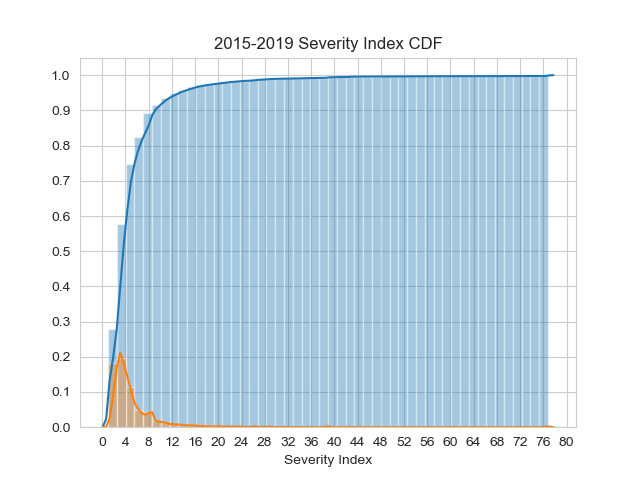
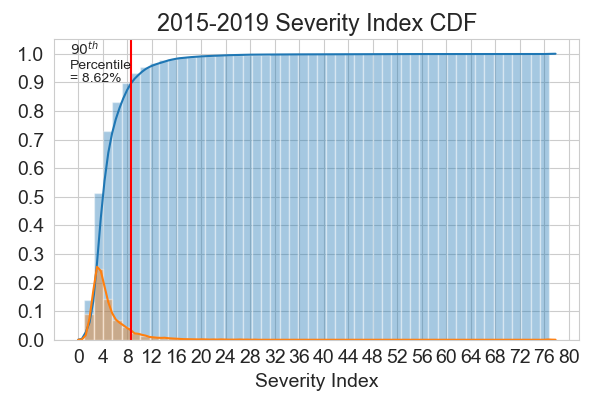
Clean up plots and the SI factor between 1 and 1.2.

Changed region(s): [[0.03, 0.03, 0.99, 0.99]]

diff --git a/src/visualization/visualize_si.py b/src/visualization/visualize_si.py
@@ -10,6 +10,10 @@ from sklearn.cluster import KMeans
 import matplotlib.pyplot as plt
 import matplotlib.ticker as plticker
 from src.utils import get_project_root
+import sklearn
+import numpy as np
+
+plt.rcParams.update({'font.size': 14})
 
 sns.set_style("whitegrid")
 LOC_Y = plticker.MultipleLocator(
@@ -21,6 +25,7 @@ LOC_X = plticker.MultipleLocator(
 
 
 def plot_cdf_pdf(crash_df_fil_si_geom_gdf_no_nan_,
+                 quantile_90th_,
                  loc_x=LOC_X,
                  loc_y=LOC_Y,
                  title_="2015-2019 Severity Index CDF",
@@ -39,7 +44,11 @@ def plot_cdf_pdf(crash_df_fil_si_geom_gdf_no_nan_,
         si_cdf_plot.xaxis.set_major_locator(loc_x)
     if bool(loc_y):
         si_cdf_plot.yaxis.set_major_locator(loc_y)
+    plt.axvline(quantile_90th_, color='red')
+    plt.text(quantile_90th_-10, 0.90, r"$90^{th}$"+"\nPercentile\n= 8.62%", fontsize=10)
     si_cdf_plot_fig = si_cdf_plot.get_figure()
+    plt.tight_layout()
+    si_cdf_plot_fig.set_size_inches(6, 4)
     si_cdf_plot_fig.savefig(
         fname=os.path.join(path_to_fig, f"{img_file_}.png")
     )
@@ -70,6 +79,7 @@ def plot_facet_cdf_pdf(crash_df_fil_si_geom_gdf_no_nan_,
     plt.subplots_adjust(top=0.85)
     si_cdf_plot_rt_cls.fig.suptitle(title_)
     si_cdf_plot_rt_cls.set_xlabels("Severity Index")
+    plt.tight_layout()
     si_cdf_plot_rt_cls.savefig(
         fname=os.path.join(path_to_fig, f"{img_file_}.png")
     )
@@ -114,6 +124,7 @@ def apply_kmeans_cluster_plot(crash_df_fil_si_geom_gdf_no_nan_):
 if __name__ == "__main__":
     path_to_prj_dir = get_project_root()
     path_interim_data = os.path.join(path_to_prj_dir, "data", "interim")
+    path_processed_data =os.path.join(path_to_prj_dir, "data", "processed")
     path_crash_si = os.path.join(path_interim_data, "aadt_crash_ncdot.gpkg")
     path_to_fig = os.path.join(path_to_prj_dir, "reports", "figures")
     path_hpms_2018_nc_fil = os.path.join(
@@ -129,9 +140,13 @@ if __name__ == "__main__":
         "~ severity_index.isna()"
     )
     crash_df_fil_si_geom_gdf.groupby("route_class").severity_index.quantile(.95)
-    crash_df_fil_si_geom_gdf.severity_index.quantile(.90)
+    crash_df_fil_si_geom_gdf_no_nan.severity_index.describe()
+    quantile_90th = crash_df_fil_si_geom_gdf.severity_index.quantile(.90)
+    plot_cdf_pdf(crash_df_fil_si_geom_gdf_no_nan,
+                 quantile_90th_=quantile_90th)
 
-    plot_cdf_pdf(crash_df_fil_si_geom_gdf_no_nan)
+    plt.rcParams.update({'font.size': 14,
+                         'xtick.labelsize':10})
     plot_facet_cdf_pdf(crash_df_fil_si_geom_gdf_no_nan)
     plot_facet_cdf_pdf(
         crash_df_fil_si_geom_gdf_no_nan_=crash_df_fil_si_geom_gdf_no_nan,
@@ -144,3 +159,27 @@ if __name__ == "__main__":
 
     apply_kmeans_cluster_plot(crash_df_fil_si_geom_gdf_no_nan)
     set(hpms_2018_nc_fil.route_numb) - set(crash_df_fil_si_geom_gdf.route_no.unique())
+
+    crash_df_fil_si_geom_gdf_no_nan_scaled_si = crash_df_fil_si_geom_gdf_no_nan.assign(
+        severity_index_need_scaling=lambda df: np.select(
+            [df.severity_index<=quantile_90th,
+             df.severity_index>quantile_90th],
+            [True, False]
+        ),
+        severity_index_scaled = lambda df: (
+            df.groupby("severity_index_need_scaling")
+                .severity_index
+                .transform(lambda x: sklearn.preprocessing.minmax_scale(x,
+                                                                        (1,1.2)))),
+        )
+    crash_df_fil_si_geom_gdf_no_nan_scaled_si.loc[
+        lambda x: ~ x.severity_index_need_scaling.astype(bool),
+        "severity_index_scaled"
+        ] = 1.2
+
+    path_si_scaled_shp_dir = os.path.join(path_processed_data, "si_scaled")
+    if not os.path.isdir(path_si_scaled_shp_dir):
+        os.mkdir(path_si_scaled_shp_dir)
+    path_si_scaled_shp = os.path.join(path_si_scaled_shp_dir, "si_scaled.shp")
+
+    crash_df_fil_si_geom_gdf_no_nan_scaled_si.to_file(path_si_scaled_shp)
